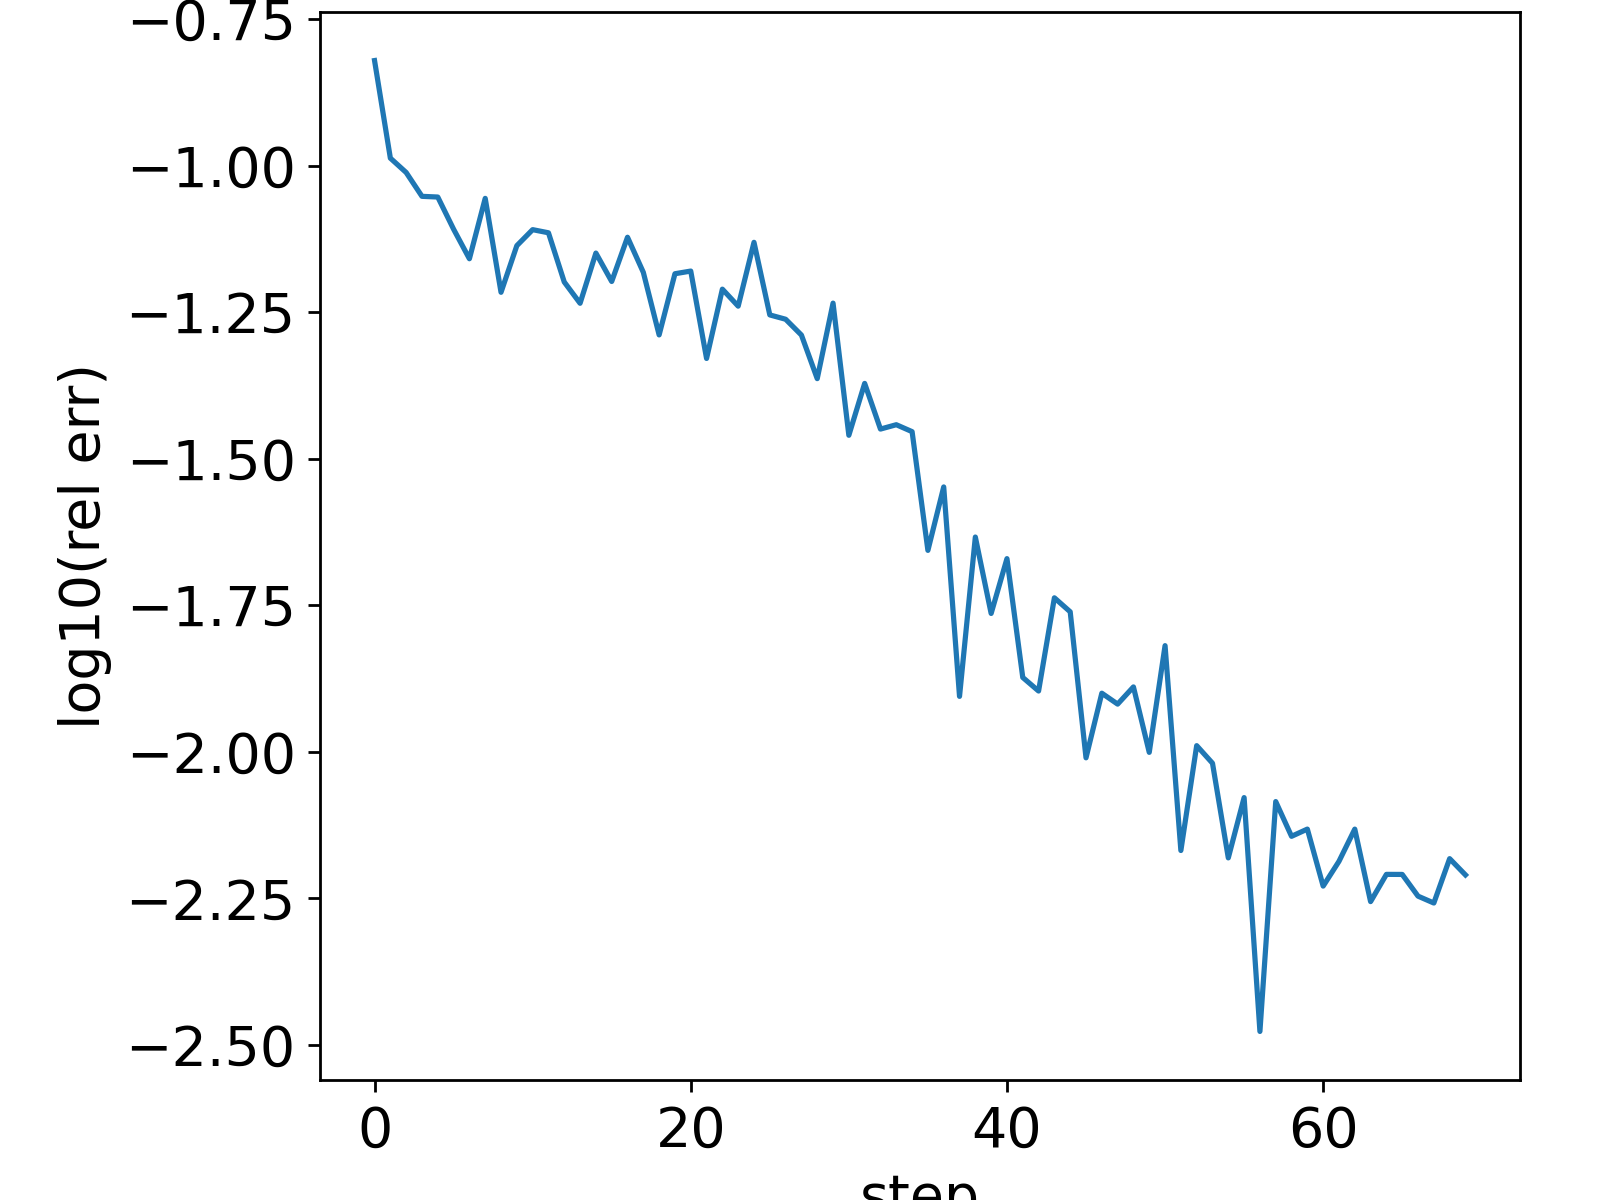
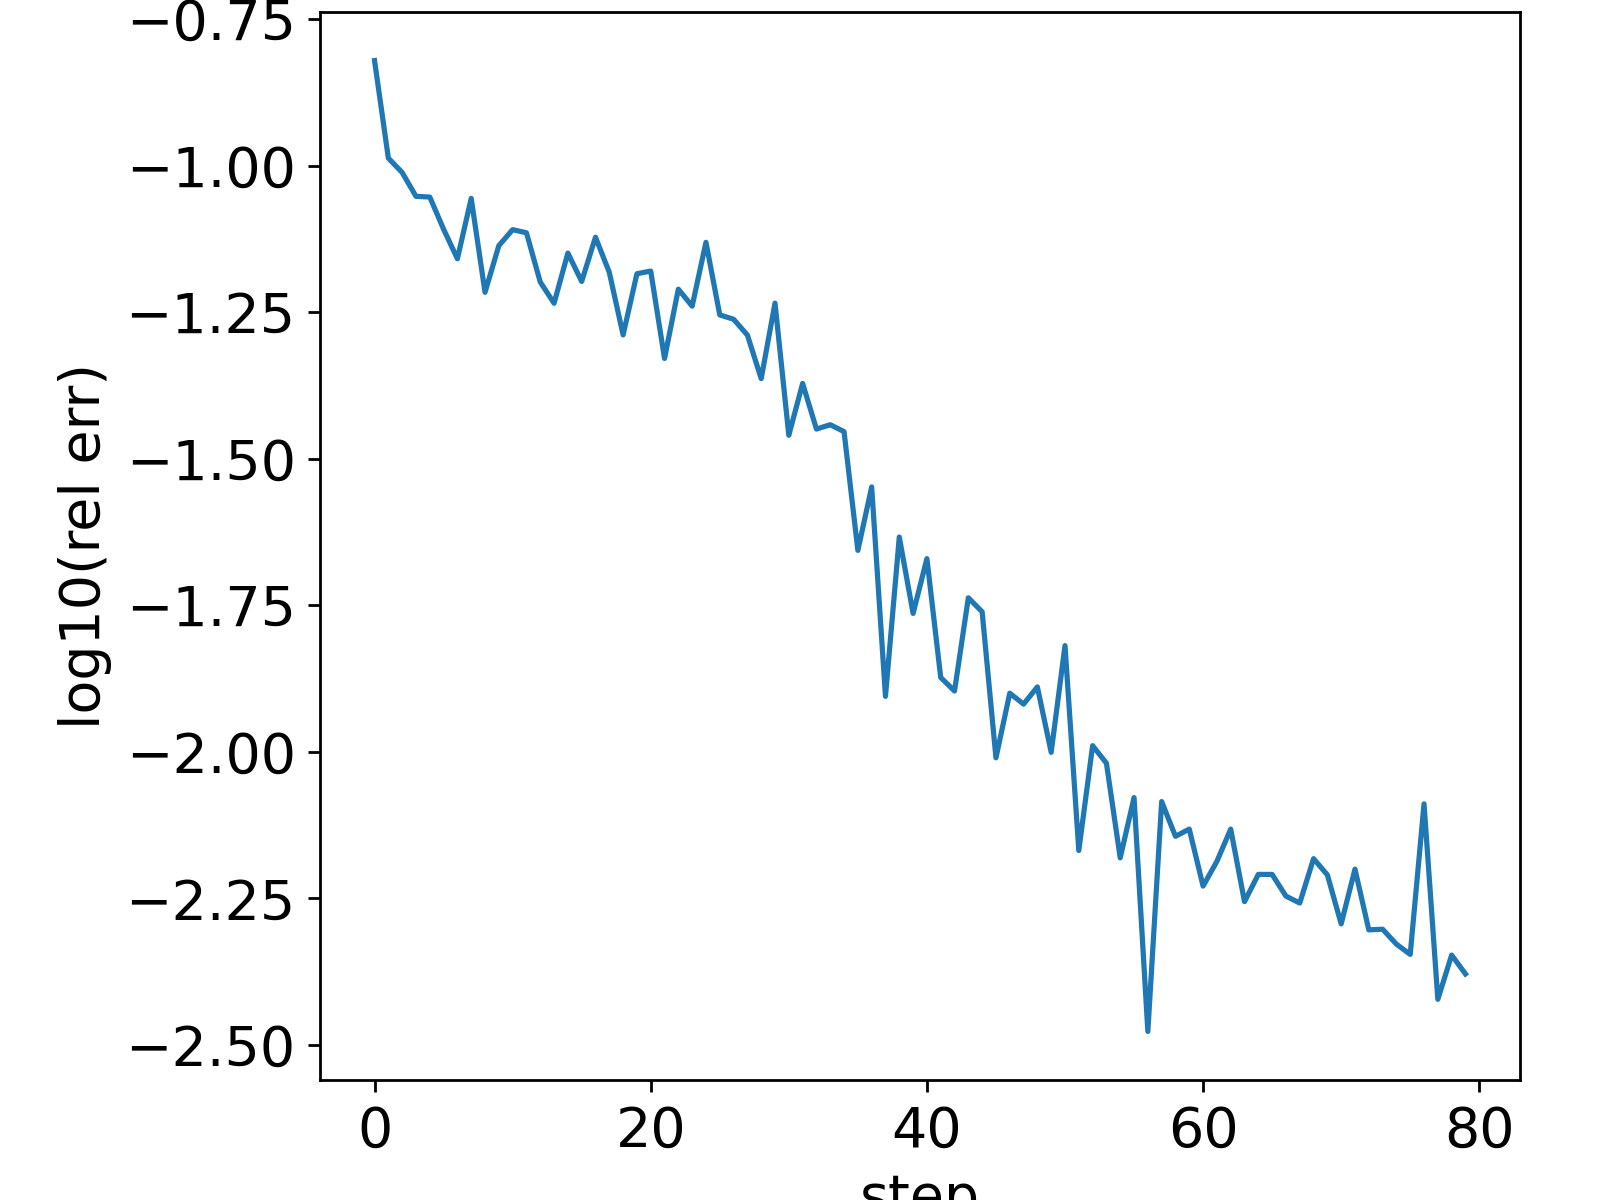
push

diff --git a/j1j2_6x4/D2/plot.py b/j1j2_6x4/D2/plot.py
@@ -7,10 +7,11 @@ plt.rcParams.update({'figure.figsize':(6.4,4.8)})
 #plt.rcParams.update({'font.family':'serif'})
 #plt.rcParams.update({'text.usetex':True})
 
-exact = -0.57432544
+exact = -0.47437906
 fig,ax = plt.subplots(nrows=1,ncols=1)
 
-for tmpdir in ('brick','peps'):
+#for tmpdir in ('brick','peps'):
+for tmpdir in ('peps',):
     out = open(tmpdir+'/summary.out', 'r').readlines()
     e = []
     for l in out:
@@ -25,4 +26,4 @@ ax.set_xlabel('step')
 ax.set_ylabel('log10(rel err)')
 ax.legend()
 plt.subplots_adjust(left=0.2, bottom=0.15, right=0.95, top=0.99)
-fig.savefig(f"heis_4x4_D4.png", dpi=250)
+fig.savefig(f"j1j2_6x4_D2.png", dpi=250)
